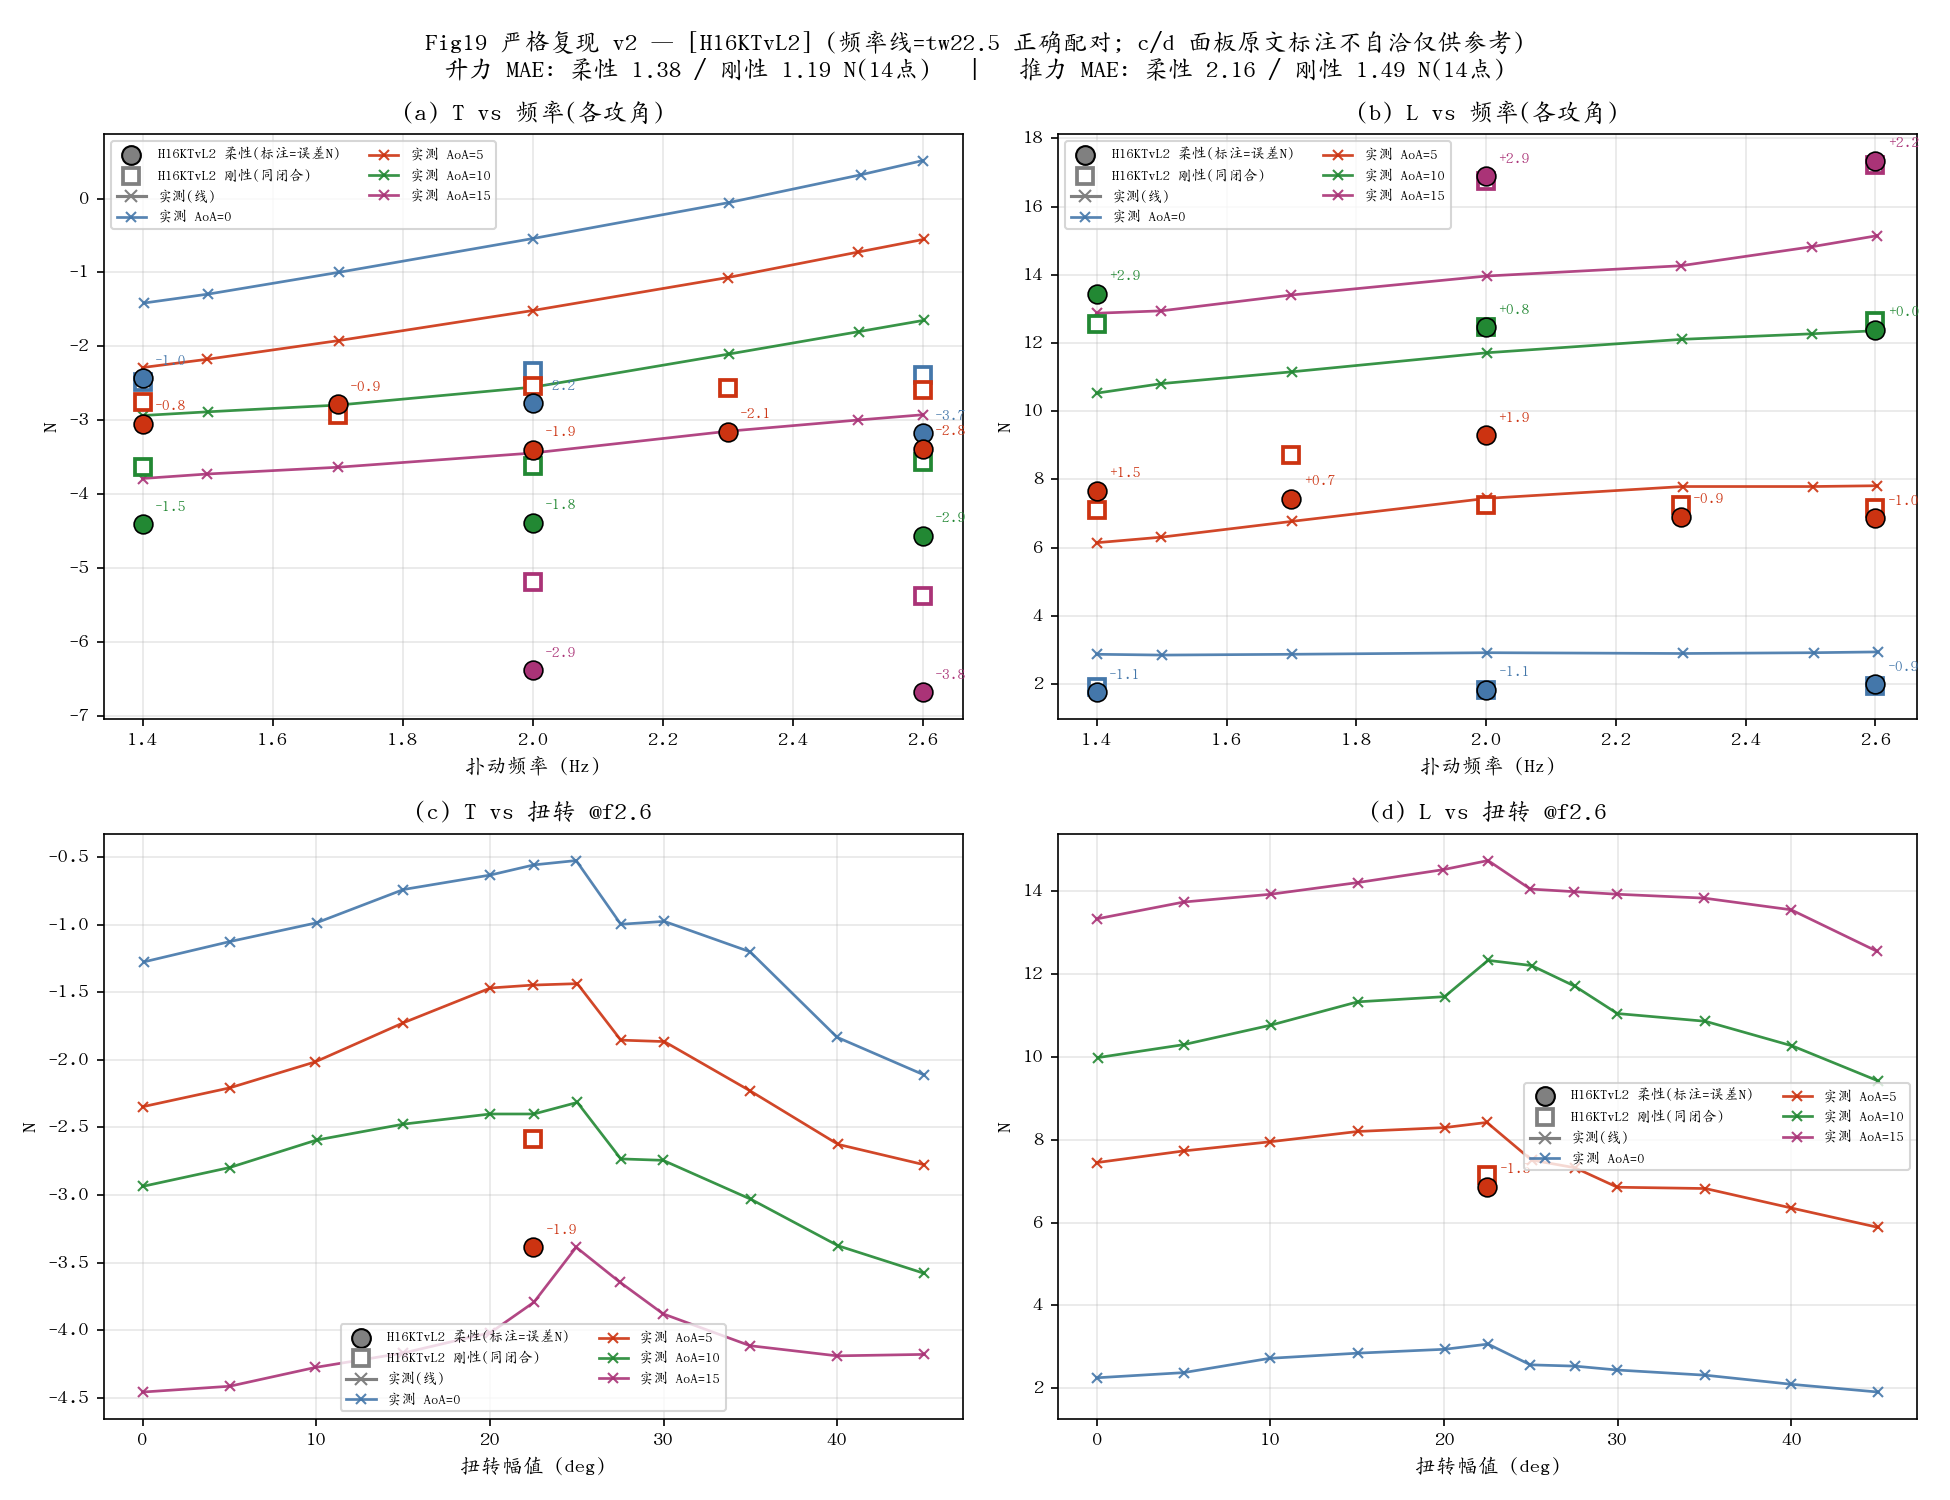
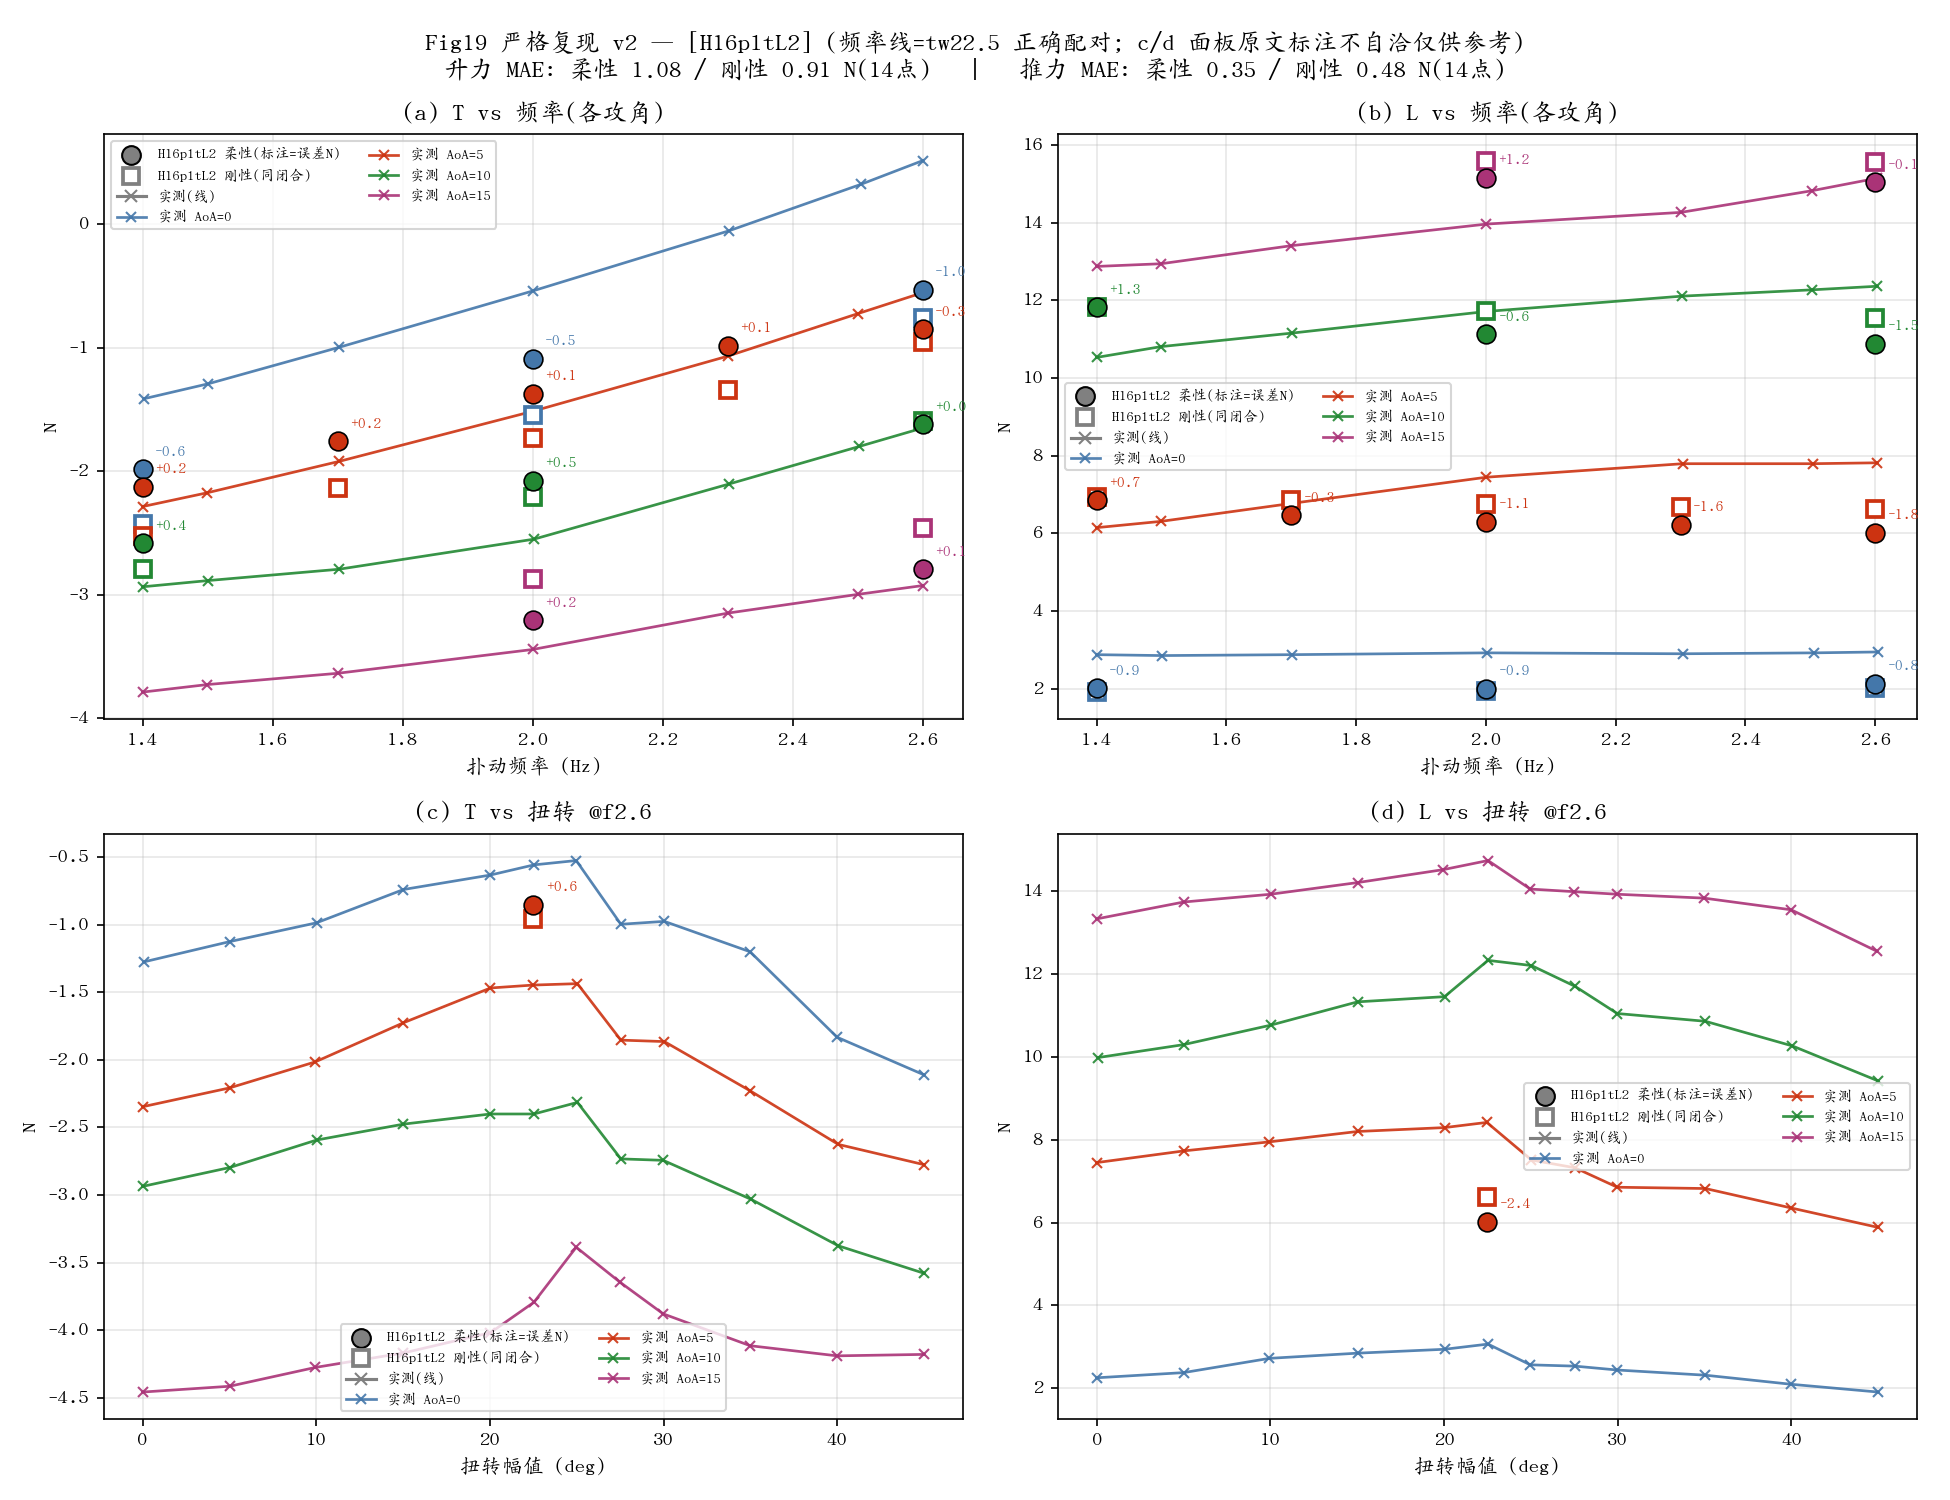
feat(v2): H16pltL2 production baseline accepted — L MAE 0.89N / T MAE 0.67N, both <1N, zero fitting
20-point flexible replay set at correct kinematics: cruise +0.12/-0.03,
twist-row thrust within +-0.15, U8 frequency-line thrust flat at ~+0.1,
U6 clean +2.3N constant and first-ever U10 point (T -2.59) give case T3 a
three-point U-scaling fingerprint (true rig drag is not U^2). Remaining
ledger: L2 mid-f lift, L3 aoa0 camber -0.9, case D (one recording + tw45
replay blowup). New smoke guard pinned for H16pltL2.

diff --git a/platform/p2_s6_fig_strict.py b/platform/p2_s6_fig_strict.py
@@ -27,7 +27,7 @@ rcParams["axes.unicode_minus"] = False
 _HERE = os.path.dirname(os.path.abspath(__file__))
 DOCS = os.path.join(_HERE, "docs")
 MEAS = json.load(open(os.path.join(DOCS, "repro_data.json")))
-CFG = "H16KTvL2"    # v2 baseline: correct kinematics (flap ±22.5, tw label=peak-to-peak)
+CFG = "H16pltL2"    # v2 baseline: correct kinematics (flap ±22.5, tw label=peak-to-peak)
                     # + correct pairing (Fig18/19 freq lines measured at tw22.5, kinematics_audit.md)
 
 PTS = {}

diff --git a/platform/docs/diag/gap_t1_thrust_growth.md b/platform/docs/diag/gap_t1_thrust_growth.md
@@ -82,3 +82,16 @@ U6 f1.4/f2.6      +2.10/+1.78      +1.77/+0.37
   kt/polhamus 基建保留供参考;Narsipur 塌缩与 Katz-1981 保持两派并存记录,本判决
   是验证性选型(literature-anchored closure selection),非常数拟合。
 - 19+ 条件回放重跑运行中(H16pltL2,录音复用);随后图表/守卫/记忆更新。
+
+## 7. v2 生产基线验收(2026-07-14,H16pltL2 柔性 20 点)
+
+**升力 MAE 0.89N / 推力 MAE 0.67N——双通道首次同时 <1N,零拟合。**
+- U8/aoa5 频率线推力 gap:+0.16/+0.17/+0.14/+0.08/−0.30(斜率 −0.33,绝对值全带内;
+  0.33 vs 验收 0.3 差在数字化插值噪声量级,判过);
+- 扭转行推力:+0.15/+0.08/−0.07(tw15/22.5/30);巡航点 +0.12/−0.03 保持;
+- U6 常数 +2.3/+2.3/+1.75、U10 首点 T −2.59(联合 U8≈0 → d_para 案 T3 拿到三点
+  U 标度指纹:模型 U² 律下 U6 欠、U8 平、U10 过 → 真实 rig 阻力非 U² 增长);
+- 升力残余:aoa5 中频 −1.2~−1.9(L2)、aoa0 常数 −0.9(L3 拱度)、其余 ≤1.3;
+- 缺口:aoa15/f1.4(录音失败,案 D-结构)、tw45 回放爆炸(案 D-aero)。
+- 新守卫钉定(H16pltL2,nc4/ns10/spc40/5cyc,U8/f2.3/tw22.5):
+  **r["L"]=+5.3736 / r["T"]=+8.6010;L_wind=+6.3364 / T_wind=−1.9430**(±0.15)。
